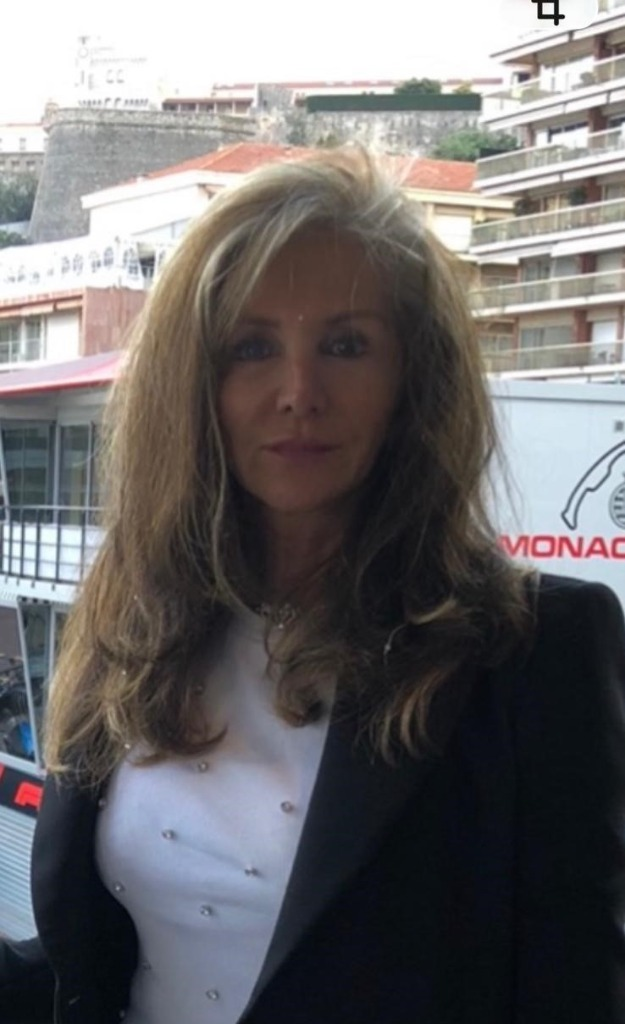
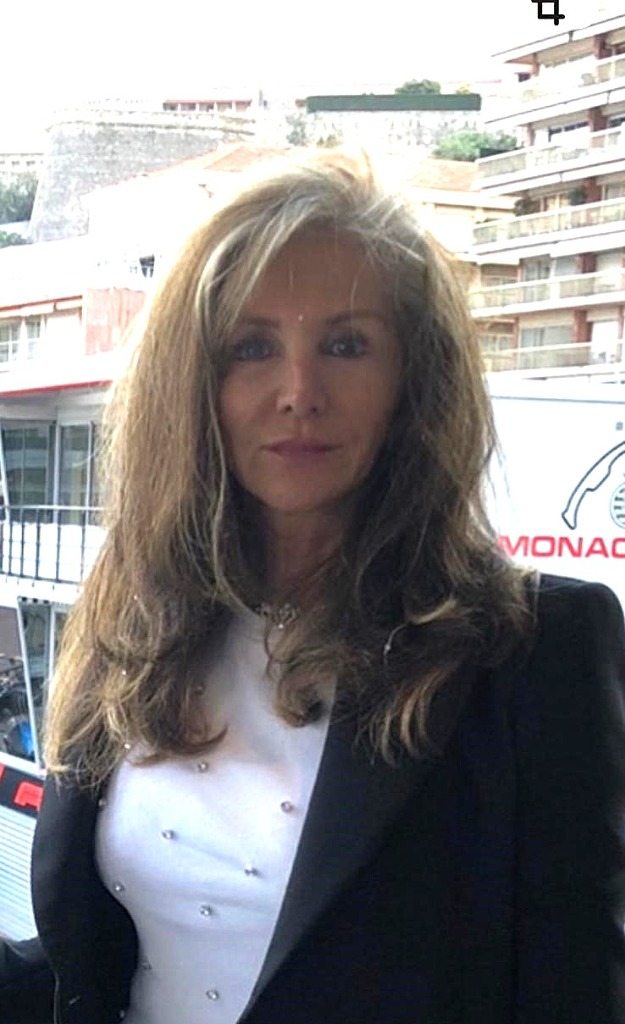
feat: update Julietta photo and shorten bio text in index.tsx

diff --git a/src/routes/index.tsx b/src/routes/index.tsx
@@ -1586,7 +1586,7 @@ const EXECUTIVE_TEAM = [
   {
     name: 'Julietta Passante',
     role: 'Managing Director, Global Partnerships',
-    bio: 'Julietta Passante is an entrepreneur and international business executive with extensive experience across real estate, investments, and business development. At Mariva Global, she leads the Group\'s global partnerships, investor engagement, and stakeholder relationships, leveraging her international network to support strategic opportunities and the Company\'s long-term growth objectives.',
+    bio: 'Julietta Passante is an entrepreneur and international business executive with extensive experience across real estate, investments, and business development. At Mariva Global, she leads the Group\'s global partnerships, investor engagement, and stakeholder relationships.',
     img: IMG.julietta,
   },
   {